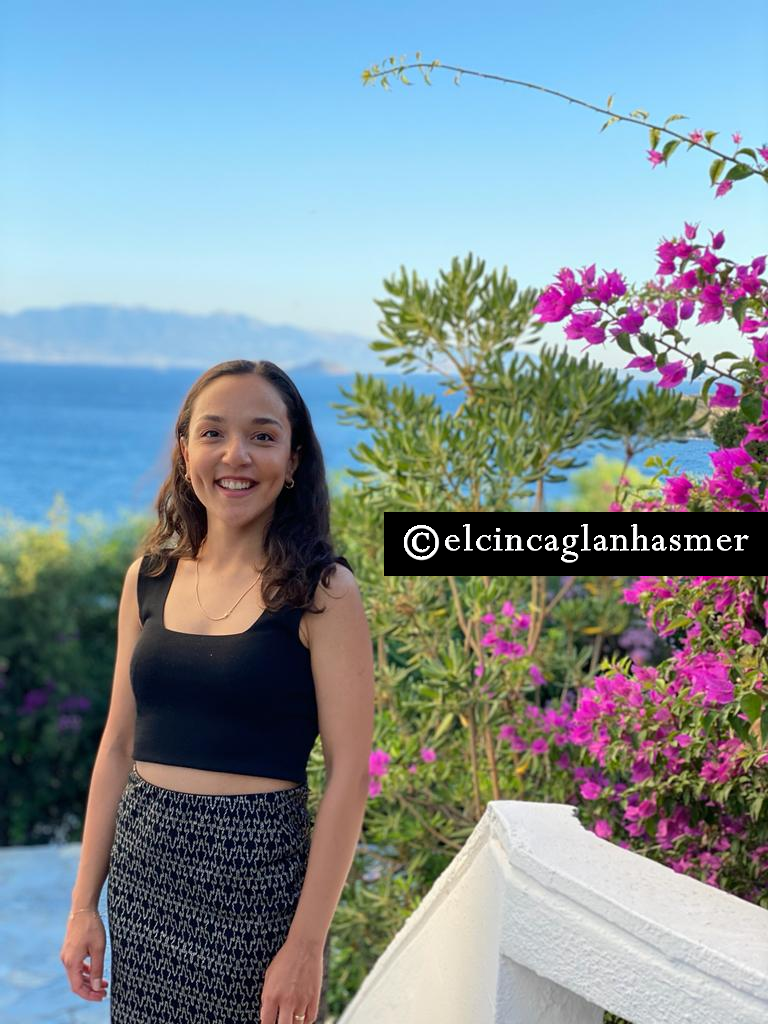
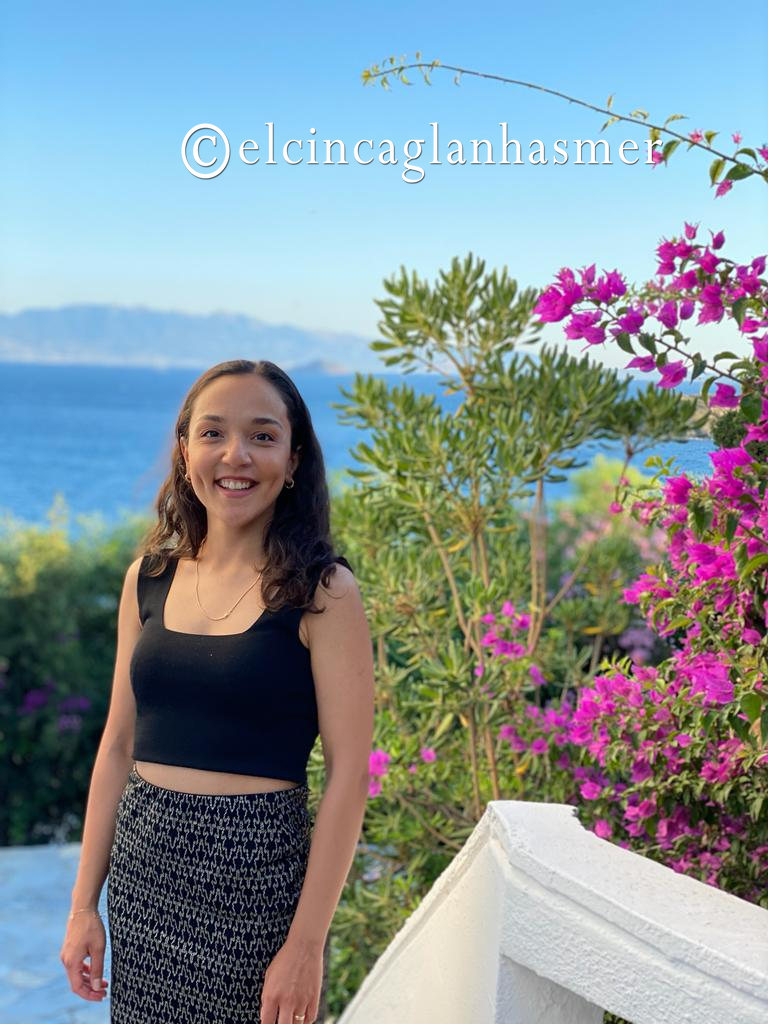
finish brain, GUI left

Changed region(s): [[0.5, 0.5, 1.0, 0.5625], [0.2188, 0.0938, 0.875, 0.1875]]

diff --git a/main_1.py b/main_1.py
@@ -25,4 +25,4 @@ copied_img.show()
 plt.imshow(copied_img)
 copied_img.save("watermarked.png")
 
-# this one does not have transparent background... so im gonna try with openCV
+# this one does not have transparent background...
